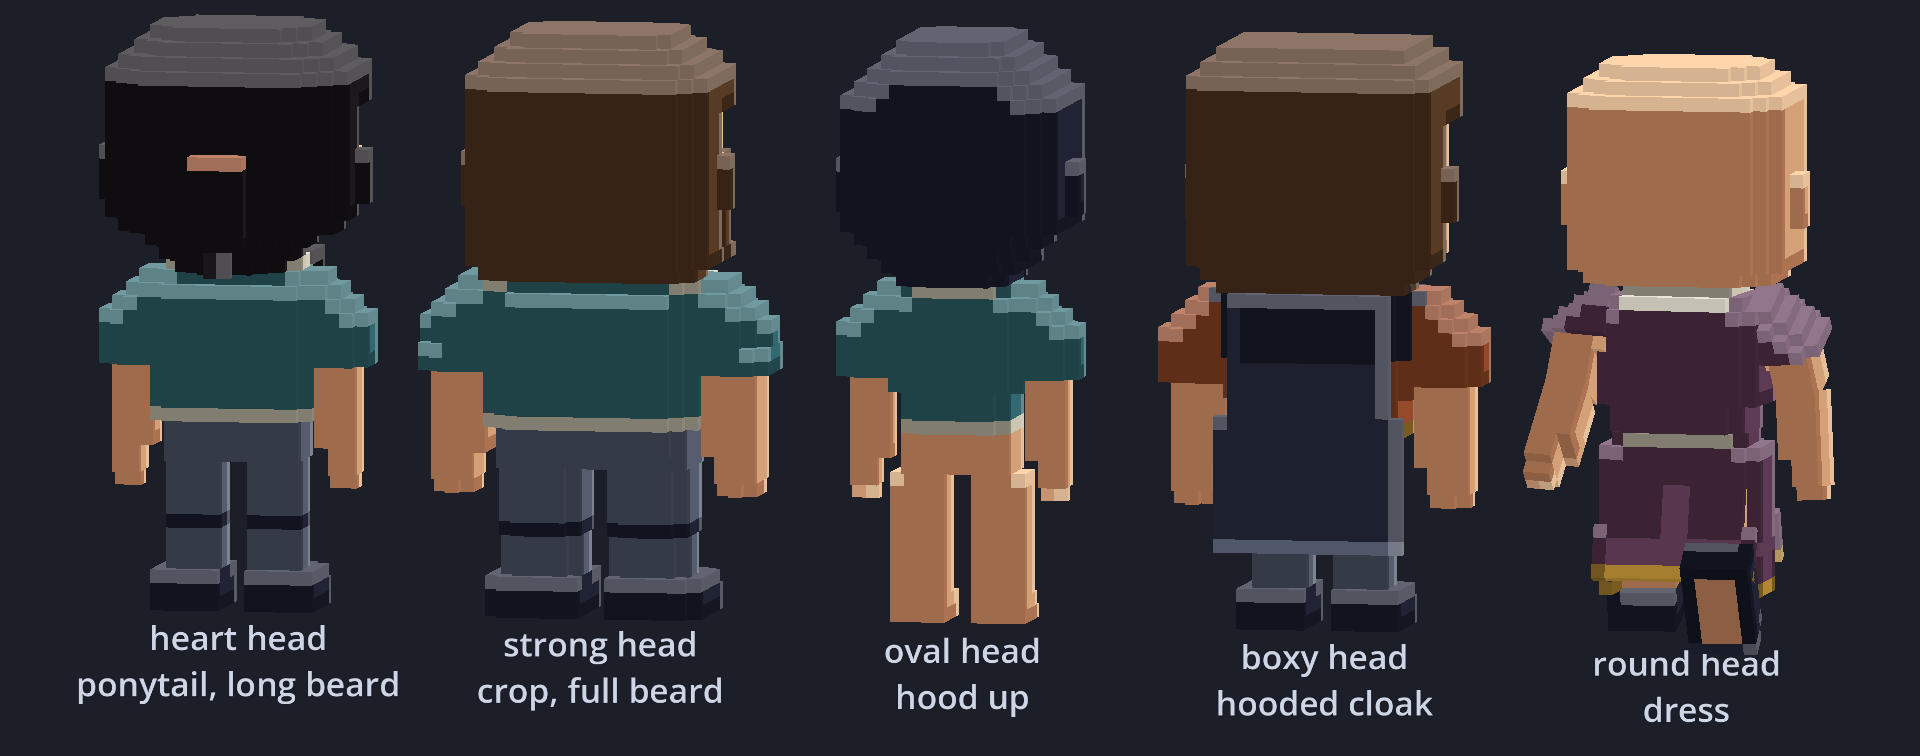
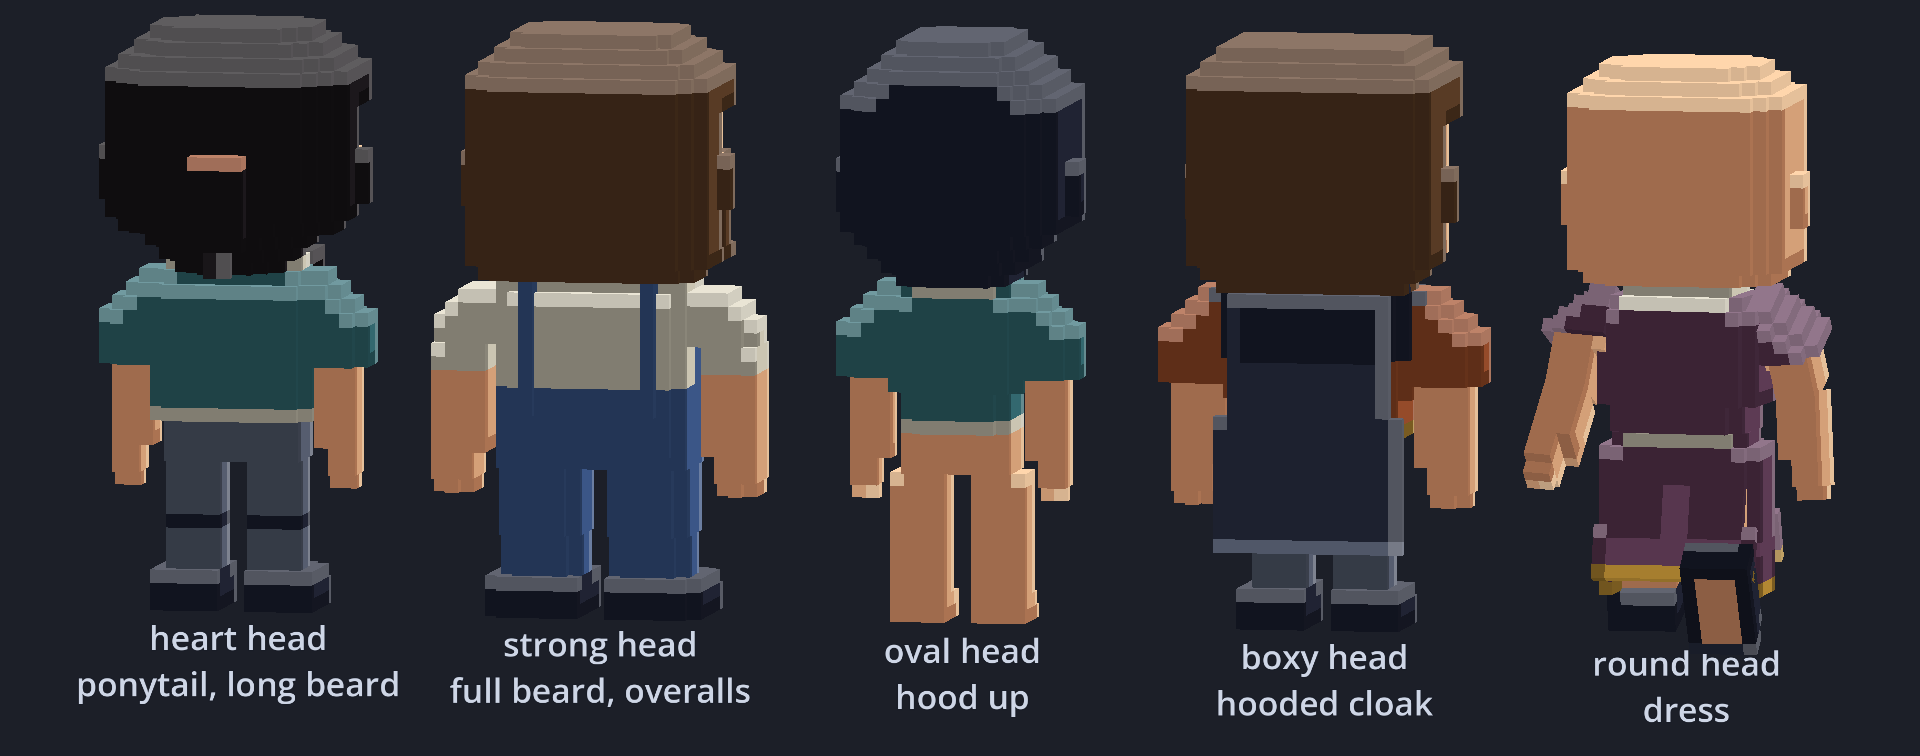
Suspenders, and overalls as an outfit of three pieces
The owner's idea: a suspenders item that reads as suspenders over ordinary
clothes and, in one colour with a bib and trousers, makes overalls.

- core/specials/strap_generator.gd (special type "straps"): a pair of
  shoulder straps, one voxel proud, up the chest, across the top beside the
  neck and straight down the back. The column sits halfway between the neck
  and the chest's edge, so wide chests carry them wider; steps in the chest
  (the rounded collar row, a bust) are bridged so each strap is one
  connected strip. Width 1 or 2. A crossed back was tried and does not read
  at this size.
- Starter items: Suspenders (accessory), Bib (zones only, draws above tops),
  a skin-tight Shirt, and a denim colourway for the trousers.
- Starter outfits "shirt and suspenders" and "overalls" (five in all).
- Tests on every body: straps generate, stand out from the chest, mirror,
  are one piece each, run from the belly's bottom row over the shoulder, sit
  between the neck and the chest's edge; width 2; visible over a thick top;
  the overalls outfit shows all four items with its three denim pieces in
  one colour.
- SPEC 7.4, NOTES 4g, README; the specials sheet shows the overalls.

1488 checks pass.

Claude-Session: https://claude.ai/code/session_01EovwGUjKAJxTGWSNshY1KA

Changed region(s): [[0.2188, 0.3651, 0.4062, 0.7302], [0.2188, 0.8823, 0.4062, 0.9431]]

diff --git a/docs/NOTES.md b/docs/NOTES.md
@@ -11,7 +11,7 @@ which parts are solid and which are guesses.
 
 ## 1. Verification status
 
-**Everything compiles and the acceptance suite is green: 1421 checks, 0 failures.**
+**Everything compiles and the acceptance suite is green: 1488 checks, 0 failures.**
 
 ```bash
 tests/run.sh                 # measures the assets, then runs the Godot suite
@@ -466,6 +466,29 @@ the legs into one block -- the most visible flaw at sprite size. Now:
   half-size voxels for clothing (mixed voxel sizes; not pursued).
 - Drawn shapes are placed as drawn: rule 8 governs grown bulk, not hand-drawn
   cells.
+
+## 4g. Suspenders, and overalls as an outfit (owner's idea)
+
+Zones alone can make trousers with a bib but not straps: the smallest zone on
+the upper chest is a quarter of it. So:
+
+- **Shoulder straps** are a new special type (`core/specials/
+  strap_generator.gd`): up the chest, over the top beside the neck, straight
+  down the back, one voxel proud, placed halfway between the neck and the
+  chest's edge so wide chests carry them wider. Steps in the chest (the
+  rounded collar row, a bust) are bridged so each strap is one connected
+  strip. Width 1 or 2. A crossed back was tried and reads as a cluster of
+  pixels at this size; the owner chose straight.
+- **Starter items:** Suspenders (accessory, uses the straps), Bib (zones only,
+  draws above tops), and a skin-tight Shirt to wear under them. Trousers gain
+  a denim colourway.
+- **Overalls are an outfit:** trousers + shirt + bib + suspenders, with the
+  three denim pieces in one colour. Each piece is useful alone.
+- **Starter outfits are now five:** everyday, travelling, dressed up, shirt
+  and suspenders, overalls.
+- The bib is skin-tight, so under a thick top (the starter tunic) it is
+  hidden by the layering rule; raise its bulk to wear it over one.
+- Not yet verified: whether the bib alone reads as an apron.
 
 ## 5. Still open, for the owner
 

diff --git a/README.md b/README.md
@@ -18,7 +18,7 @@ figures. Godot 4, GDScript.
 | Parametric garments (regions, roles, bulk, mirror, edge style) | done |
 | Layering by reach, then draw order | done |
 | One-file wardrobe (v2) with exact round-trip | done; v1 files still open |
-| Special shapes on any item | skirt, cape, hood, and a drawn shape anchored to the body |
+| Special shapes on any item | skirt, cape, hood, shoulder straps, facial hair, and a drawn shape anchored to the body |
 | Eyes, hair, facial hair as their own kind of item | done |
 | Eyelids and brows over the open eye; skin tones | done (Preview picks them) |
 | Mesher (exposed-face culling, vertex colours) | done |
@@ -62,7 +62,7 @@ same character assembled the way the game will do it, with no editor involved.
 ## Tests
 
 Every acceptance check in `SPEC.md` section 12 is an automated test.
-**1421 checks, all passing** on Godot 4.7.2.
+**1488 checks, all passing** on Godot 4.7.2.
 
 ```bash
 godot --headless --path . --script res://tests/run_tests.gd

diff --git a/SPEC.md b/SPEC.md
@@ -274,6 +274,11 @@ from a pivot on a body part (front/back/side panels from the pelvis; cape panels
 driver rule (front panel follows the more-forward thigh, back panel the more-backward one, side panels their own
 thigh). Legs may clip at extreme poses; accepted.
 
+**Built so far:** skirt, cape, hood, shoulder straps, facial hair (§5.1), and a hand-drawn shape placed at a body
+anchor. **Straps** run up the chest, across the top beside the neck and straight down the back, one voxel proud, in a
+column halfway between the neck and the chest's edge, so they fit every body. Worn over a shirt they are suspenders.
+**Overalls are an outfit, not a garment** (owner): trousers, a bib of zones, and suspenders, all in one colour.
+
 Hand-placed voxel edits: allowed on special types; ordinary parametric garments stay purely parametric (hand edits
 would stop them fitting other bodies). Decals (buttons, emblems) are deferred; thin trim bands cover most of it.
 
